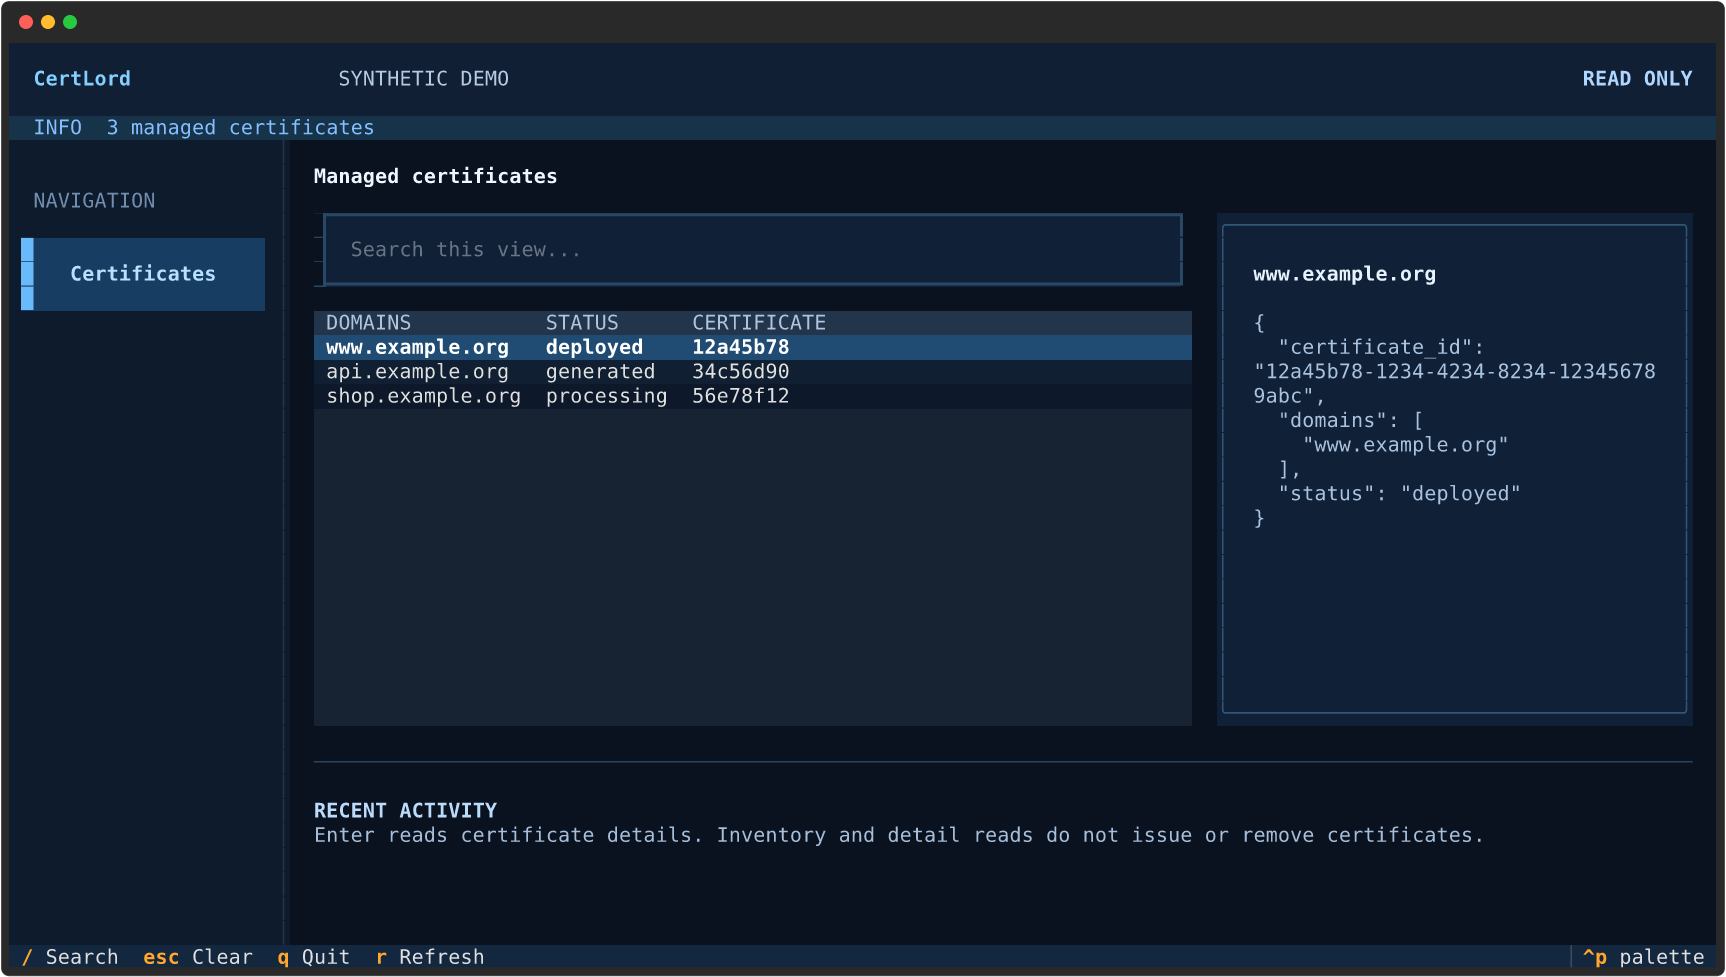
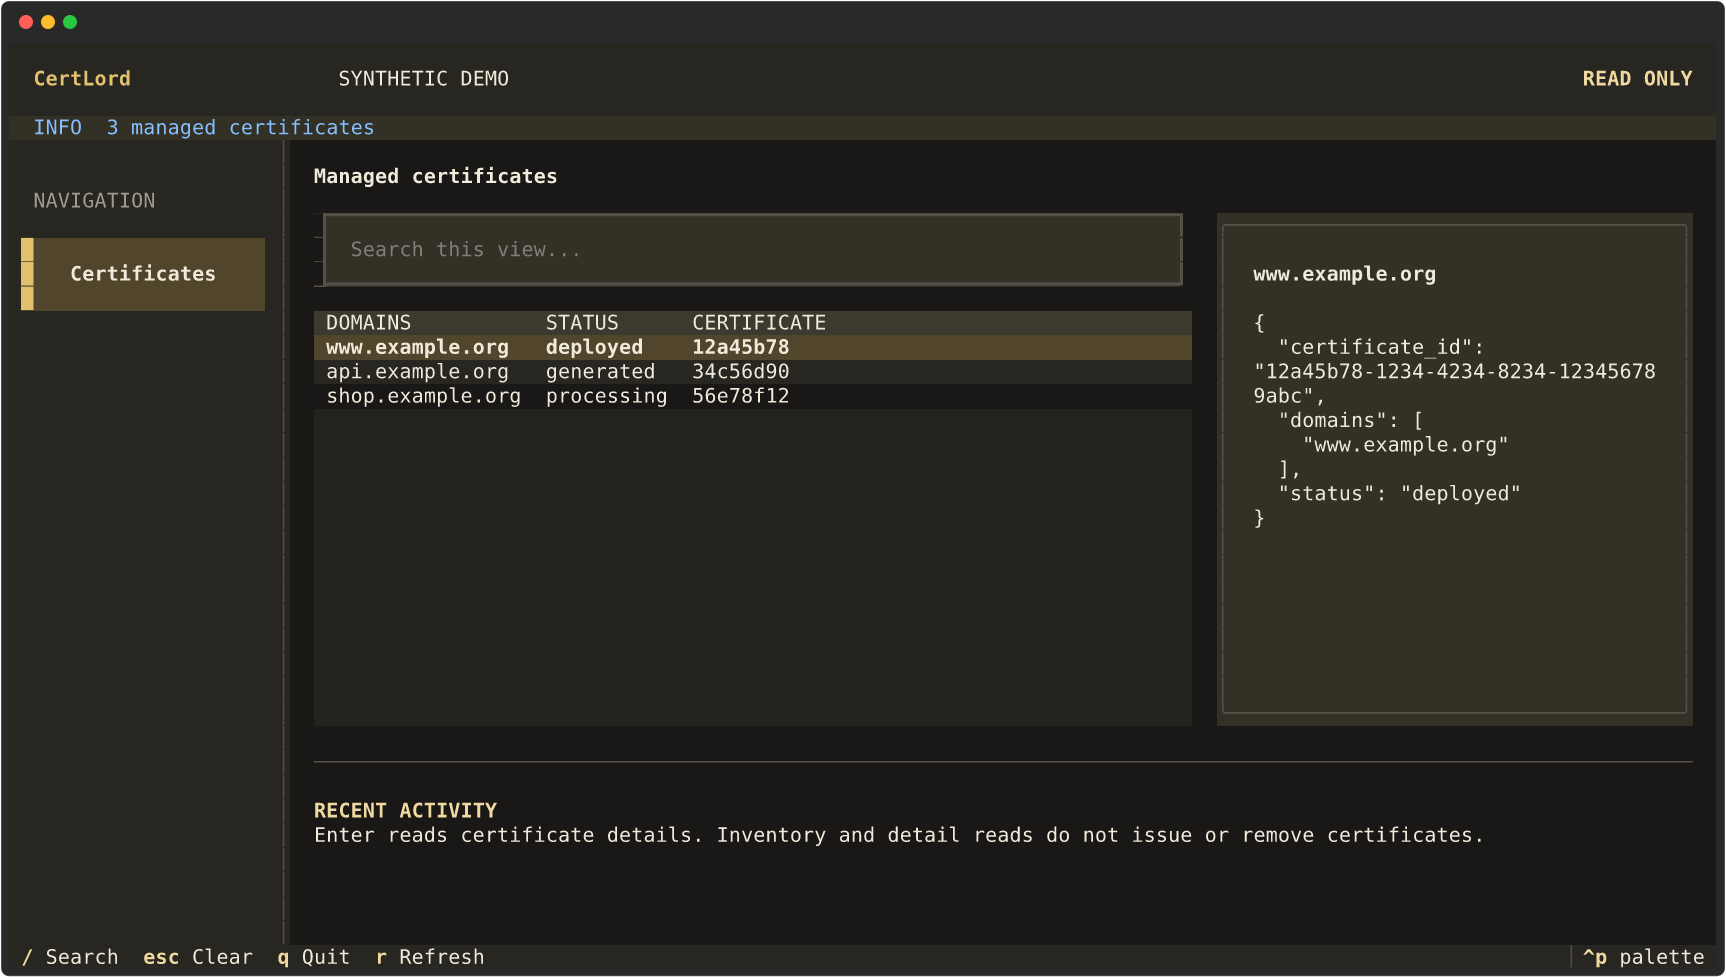
Apply product Textual palette and refresh synthetic documentation

diff --git a/scripts/capture_textual.py b/scripts/capture_textual.py
@@ -2,6 +2,8 @@
 import argparse
 import asyncio
 import hashlib
+import importlib.metadata
+import dwho.tui.textual
 import json
 import os
 os.environ.pop("NO_COLOR", None)
@@ -48,7 +50,10 @@ async def capture(output, png=False):
     except (OSError, subprocess.CalledProcessError):
         revision, dirty = None, True
     (output / 'textual-manifest.json').write_text(json.dumps(dict(synthetic=True,
-        renderer='Textual', source_revision=revision, dirty=dirty, source_sha256=sources, captures=artifacts), indent=2)+'\n')
+        renderer='Textual', textual_version=importlib.metadata.version('textual'),
+        dwho_version=importlib.metadata.version('dwho'),
+        shared_source_sha256={p.name: hashlib.sha256(p.read_bytes()).hexdigest()
+                              for p in Path(dwho.tui.textual.__file__).parent.glob('*.py')}, source_revision=revision, dirty=dirty, source_sha256=sources, captures=artifacts), indent=2)+'\n')
 
 
 def save(app, output, name, artifacts, png):

diff --git a/setup.py b/setup.py
@@ -40,7 +40,7 @@ setup(
     scripts                       = ['bin/certlord'],
     packages                      = find_packages(include=['certlord', 'certlord.*']),
     install_requires              = requirements,
-    extras_require                = {'textual': ['dwho[textual]>=0.3.65']},
+    extras_require                = {'textual': ['dwho[textual]>=0.3.66']},
     python_requires               = ', '.join(setup_cfg['python_requires']),
     classifiers                   = setup_cfg['classifiers'],
     long_description              = long_desc,

diff --git a/docs/textual.md b/docs/textual.md
@@ -1,5 +1,10 @@
 # Textual terminal interface
 
+The Textual interface uses a gold and charcoal palette with DWho 0.3.66 or newer.
+Navigation, tables and dialogs share the product colors. Labeled status colors
+remain consistent across products: blue acceptance, violet in progress, green
+success, amber warning or uncertainty, and red failure.
+
 Install the optional extra with `pip install "certlord[textual]"`.
 
 Run `certlord tui --ui textual`. Search the managed certificate inventory,
